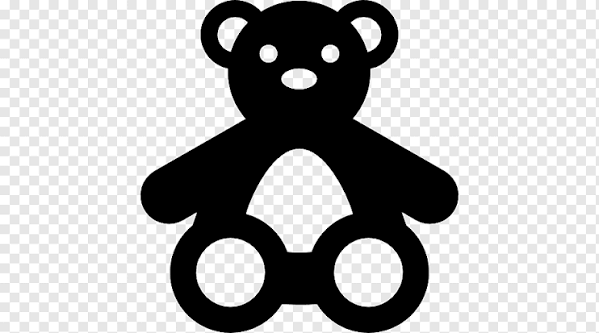
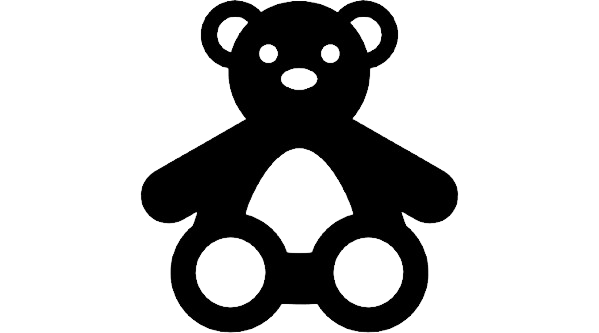
done

diff --git a/STACK_JS/Simulacro_Certificación2/static/css/style.css b/STACK_JS/Simulacro_Certificación2/static/css/style.css
@@ -171,28 +171,23 @@ body {
 /*Sección principal   ////////////////////////////////////////////////////////////////////////////*/
 .seccion1 {
     display: flex;
-    flex-direction: column;
-    justify-content: center;
+    flex-direction: row;
+    justify-content: space-between;
     align-items: center;
     background-color: #CCCCCC;
     width: 750px;
     height: 500px;
     padding: 40px;
+    gap: 30px;
 }
-
 .contenido-principal {
-    width: 100%;
+    width: 40%;
 }
 
 .seccion1 h1 {
     color: #152F48;
     font-size: 30px;
     margin-bottom: 15px;
-}
-
-.seccion1 p {
-    margin-bottom: 10px;
-    font-size: 15px;
 }
 
 .seccion1 h1 .span {
@@ -205,16 +200,29 @@ body {
     flex-direction: column;
     align-items: center;
     justify-content: center;
-    margin-top: 20px;
+    width: 60%;
+    margin-top: 0;
 }
 
 video {
-    height: 250px;
-    width: 400px;
+    width: 380px;
+    height: 240px;
 }
 
 .video-contenedor p {
     margin-top: 10px;
+    font-weight: bold;
+    color: #152F48;
+}
+
+.contenido-principal p {
+    margin-bottom: 10px;
+    font-size: 15px;
+}
+
+.video-contenedor p {
+    margin-top: 10px;
+    margin-bottom: 0;
     font-weight: bold;
     color: #152F48;
 }
